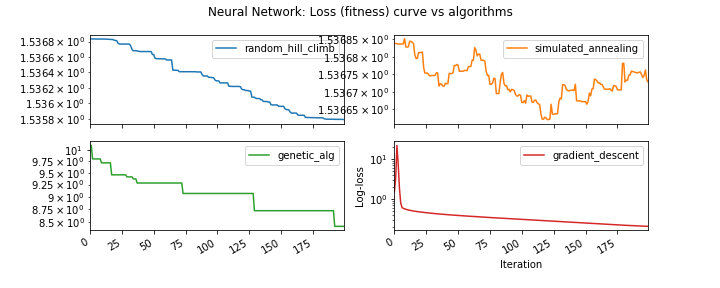
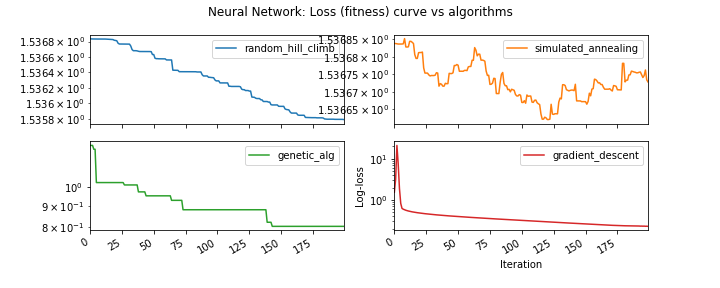
update nn

diff --git a/RO/assignment2/nn.py b/RO/assignment2/nn.py
@@ -45,6 +45,7 @@ for algo in algo_list:
         hidden_nodes=[100],
         activation="relu",
         algorithm=algo,
+        clip_max=1,
         max_iters=200,
         learning_rate=0.001,
         random_state=42,
@@ -125,12 +126,14 @@ plt.close()
 df = pd.DataFrame(curve_list).transpose()
 df.columns = algo_list
 df.plot(
+    logy=True,
     subplots=True,
-    figsize=(7, 7),
+    layout=(2,2),
+    figsize=(10, 4),
     title="Neural Network: Loss (fitness) curve vs algorithms",
 )
 plt.xlabel("Iteration")
-plt.ylabel("Loss")
+plt.ylabel("Log-loss")
 plt.savefig("output/nn_algo.png")
 plt.close()
 
